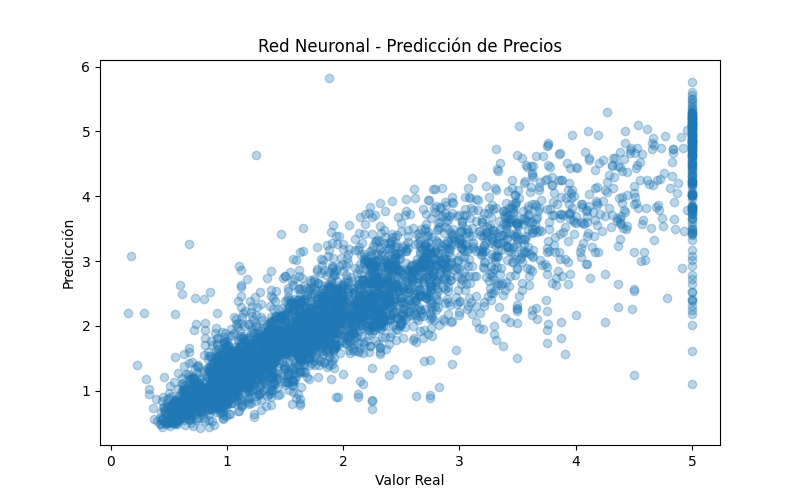
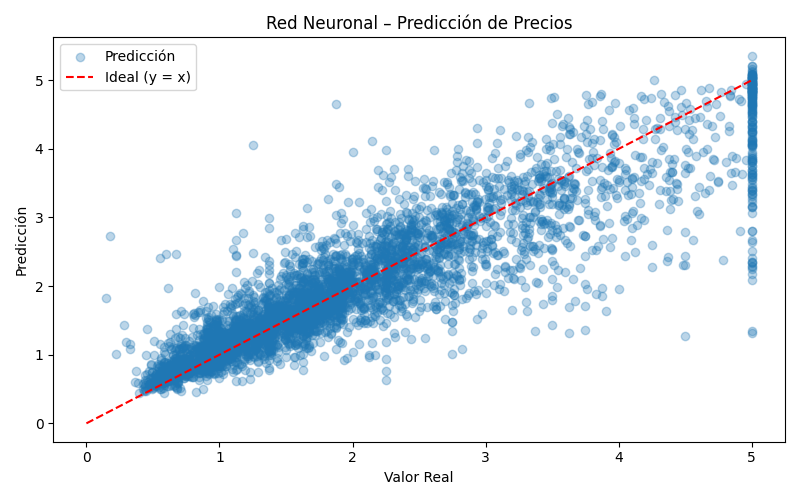
Versión final optimizada con red neuronal

diff --git a/modelo.py b/modelo.py
@@ -1,5 +1,5 @@
-# modelo.py
-
+# modelo.py  – Versión mejorada
+import os
 import numpy as np
 import pandas as pd
 import matplotlib.pyplot as plt
@@ -7,78 +7,122 @@ from sklearn.datasets import fetch_california_housing
 from sklearn.linear_model import LinearRegression
 from sklearn.model_selection import train_test_split
 from sklearn.preprocessing import StandardScaler
+from sklearn.metrics import mean_squared_error, r2_score
 from tensorflow.keras.models import Sequential
-from tensorflow.keras.layers import Dense
+from tensorflow.keras.layers import Dense, Dropout
+from tensorflow.keras.callbacks import EarlyStopping
 
-# 1. Cargar dataset
+# ----------------------------------------------------------
+# 0. Configuración general
+# ----------------------------------------------------------
+os.makedirs("graficos", exist_ok=True)          # carpeta para las imágenes
+RANDOM_STATE = 42                               # reproducibilidad
+
+# ----------------------------------------------------------
+# 1. Carga del dataset
+# ----------------------------------------------------------
 data = fetch_california_housing()
-df = pd.DataFrame(data.data, columns=data.feature_names)
-df['target'] = data.target
+df   = pd.DataFrame(data.data, columns=data.feature_names)
+df["target"] = data.target                     # precio de la vivienda
 
-# 2. REGRESIÓN LINEAL SIMPLE con AveRooms
-X_simple = df[['AveRooms']]
-y = df['target']
+# ----------------------------------------------------------
+# 2. Regresión lineal simple (AveRooms) con filtrado de outliers
+# ----------------------------------------------------------
+#   – Eliminar valores extremos de AveRooms (> 20)
+df_rl = df[df["AveRooms"] < 20].copy()
 
-modelo_rl = LinearRegression()
-modelo_rl.fit(X_simple, y)
-pred_simple = modelo_rl.predict(X_simple)
+X_simple = df_rl[["AveRooms"]]
+y_simple = df_rl["target"]
 
-# 3. Guardar gráfico de regresión lineal
-plt.figure(figsize=(8,5))
-plt.scatter(X_simple, y, alpha=0.3, label="Valores reales")
+lin_reg = LinearRegression()
+lin_reg.fit(X_simple, y_simple)
+pred_simple = lin_reg.predict(X_simple)
+
+#  Métricas
+mse_rl = mean_squared_error(y_simple, pred_simple)
+r2_rl  = r2_score(y_simple, pred_simple)
+print(f"\nRegresión Lineal  |  MSE = {mse_rl:.3f}  |  R² = {r2_rl:.3f}")
+
+#  Gráfico
+plt.figure(figsize=(8, 5))
+plt.scatter(X_simple, y_simple, alpha=0.3, label="Valores reales")
 plt.plot(X_simple, pred_simple, color="red", label="Predicción")
 plt.xlabel("Promedio de habitaciones (AveRooms)")
 plt.ylabel("Precio medio de vivienda")
-plt.title("Regresión Lineal Simple")
+plt.title("Regresión Lineal Simple (sin outliers)")
 plt.legend()
+plt.tight_layout()
 plt.savefig("graficos/regresion_lineal.png")
 plt.close()
 
-# 4. RED NEURONAL MULTIVARIABLE
+# ----------------------------------------------------------
+# 3. Red neuronal multivariable con Keras
+# ----------------------------------------------------------
+X_full = df.drop(columns="target")
+y_full = df["target"]
 
-# Preparar datos
-X = df.drop(columns='target')
-y = df['target']
+scaler   = StandardScaler()
+X_scaled = scaler.fit_transform(X_full)
 
-scaler = StandardScaler()
-X_scaled = scaler.fit_transform(X)
+X_train, X_test, y_train, y_test = train_test_split(
+    X_scaled, y_full, test_size=0.2, random_state=RANDOM_STATE
+)
 
-X_train, X_test, y_train, y_test = train_test_split(X_scaled, y, test_size=0.2, random_state=42)
-
-# Construir modelo de red neuronal
+#  Arquitectura mejorada
 model = Sequential([
-    Dense(64, activation='relu', input_shape=(X_train.shape[1],)),
-    Dense(32, activation='relu'),
+    Dense(128, activation="relu", input_shape=(X_train.shape[1],)),
+    Dropout(0.2),
+    Dense(64, activation="relu"),
+    Dense(32, activation="relu"),
     Dense(1)
 ])
 
-model.compile(optimizer='adam', loss='mse')
-model.fit(X_train, y_train, epochs=50, validation_split=0.2, verbose=0)
+model.compile(optimizer="adam", loss="mse")
 
-# Predicciones
+#   – Early Stopping para evitar sobre-ajuste
+early_stop = EarlyStopping(
+    monitor="val_loss", patience=10, restore_best_weights=True
+)
+
+history = model.fit(
+    X_train, y_train,
+    epochs=200,
+    validation_split=0.2,
+    callbacks=[early_stop],
+    verbose=0
+)
+
+#  Predicciones y métricas
 y_pred = model.predict(X_test).flatten()
+mse_nn = mean_squared_error(y_test, y_pred)
+r2_nn  = r2_score(y_test, y_pred)
+print(f"Red Neuronal      |  MSE = {mse_nn:.3f}  |  R² = {r2_nn:.3f}")
 
-# 5. Guardar gráfico de red neuronal
-plt.figure(figsize=(8,5))
-plt.scatter(y_test, y_pred, alpha=0.3)
+#  Gráfico con línea y = x
+plt.figure(figsize=(8, 5))
+plt.scatter(y_test, y_pred, alpha=0.3, label="Predicción")
+plt.plot([0, 5], [0, 5], "r--", label="Ideal (y = x)")
 plt.xlabel("Valor Real")
 plt.ylabel("Predicción")
-plt.title("Red Neuronal - Predicción de Precios")
+plt.title("Red Neuronal – Predicción de Precios")
+plt.legend()
+plt.tight_layout()
 plt.savefig("graficos/red_neuronal.png")
 plt.close()
 
-# 6. Estructuras de control y datos
+# ----------------------------------------------------------
+# 4. Ejemplo de estructuras de control y datos
+# ----------------------------------------------------------
 resultados = []
 for real, pred in zip(y_test[:10], y_pred[:10]):
     error = abs(real - pred)
-    resultado = {
-        'real': round(real, 2),
-        'predicho': round(pred, 2),
-        'error': round(error, 2),
-        'comentario': "Preciso" if error < 0.5 else "Mejorable"
-    }
-    resultados.append(resultado)
+    resultados.append({
+        "real": round(real, 2),
+        "predicho": round(pred, 2),
+        "error": round(error, 2),
+        "comentario": "Preciso" if error < 0.5 else "Mejorable"
+    })
 
-# Mostrar resultados
+print("\nPrimeros 10 resultados:")
 for r in resultados:
     print(r)
